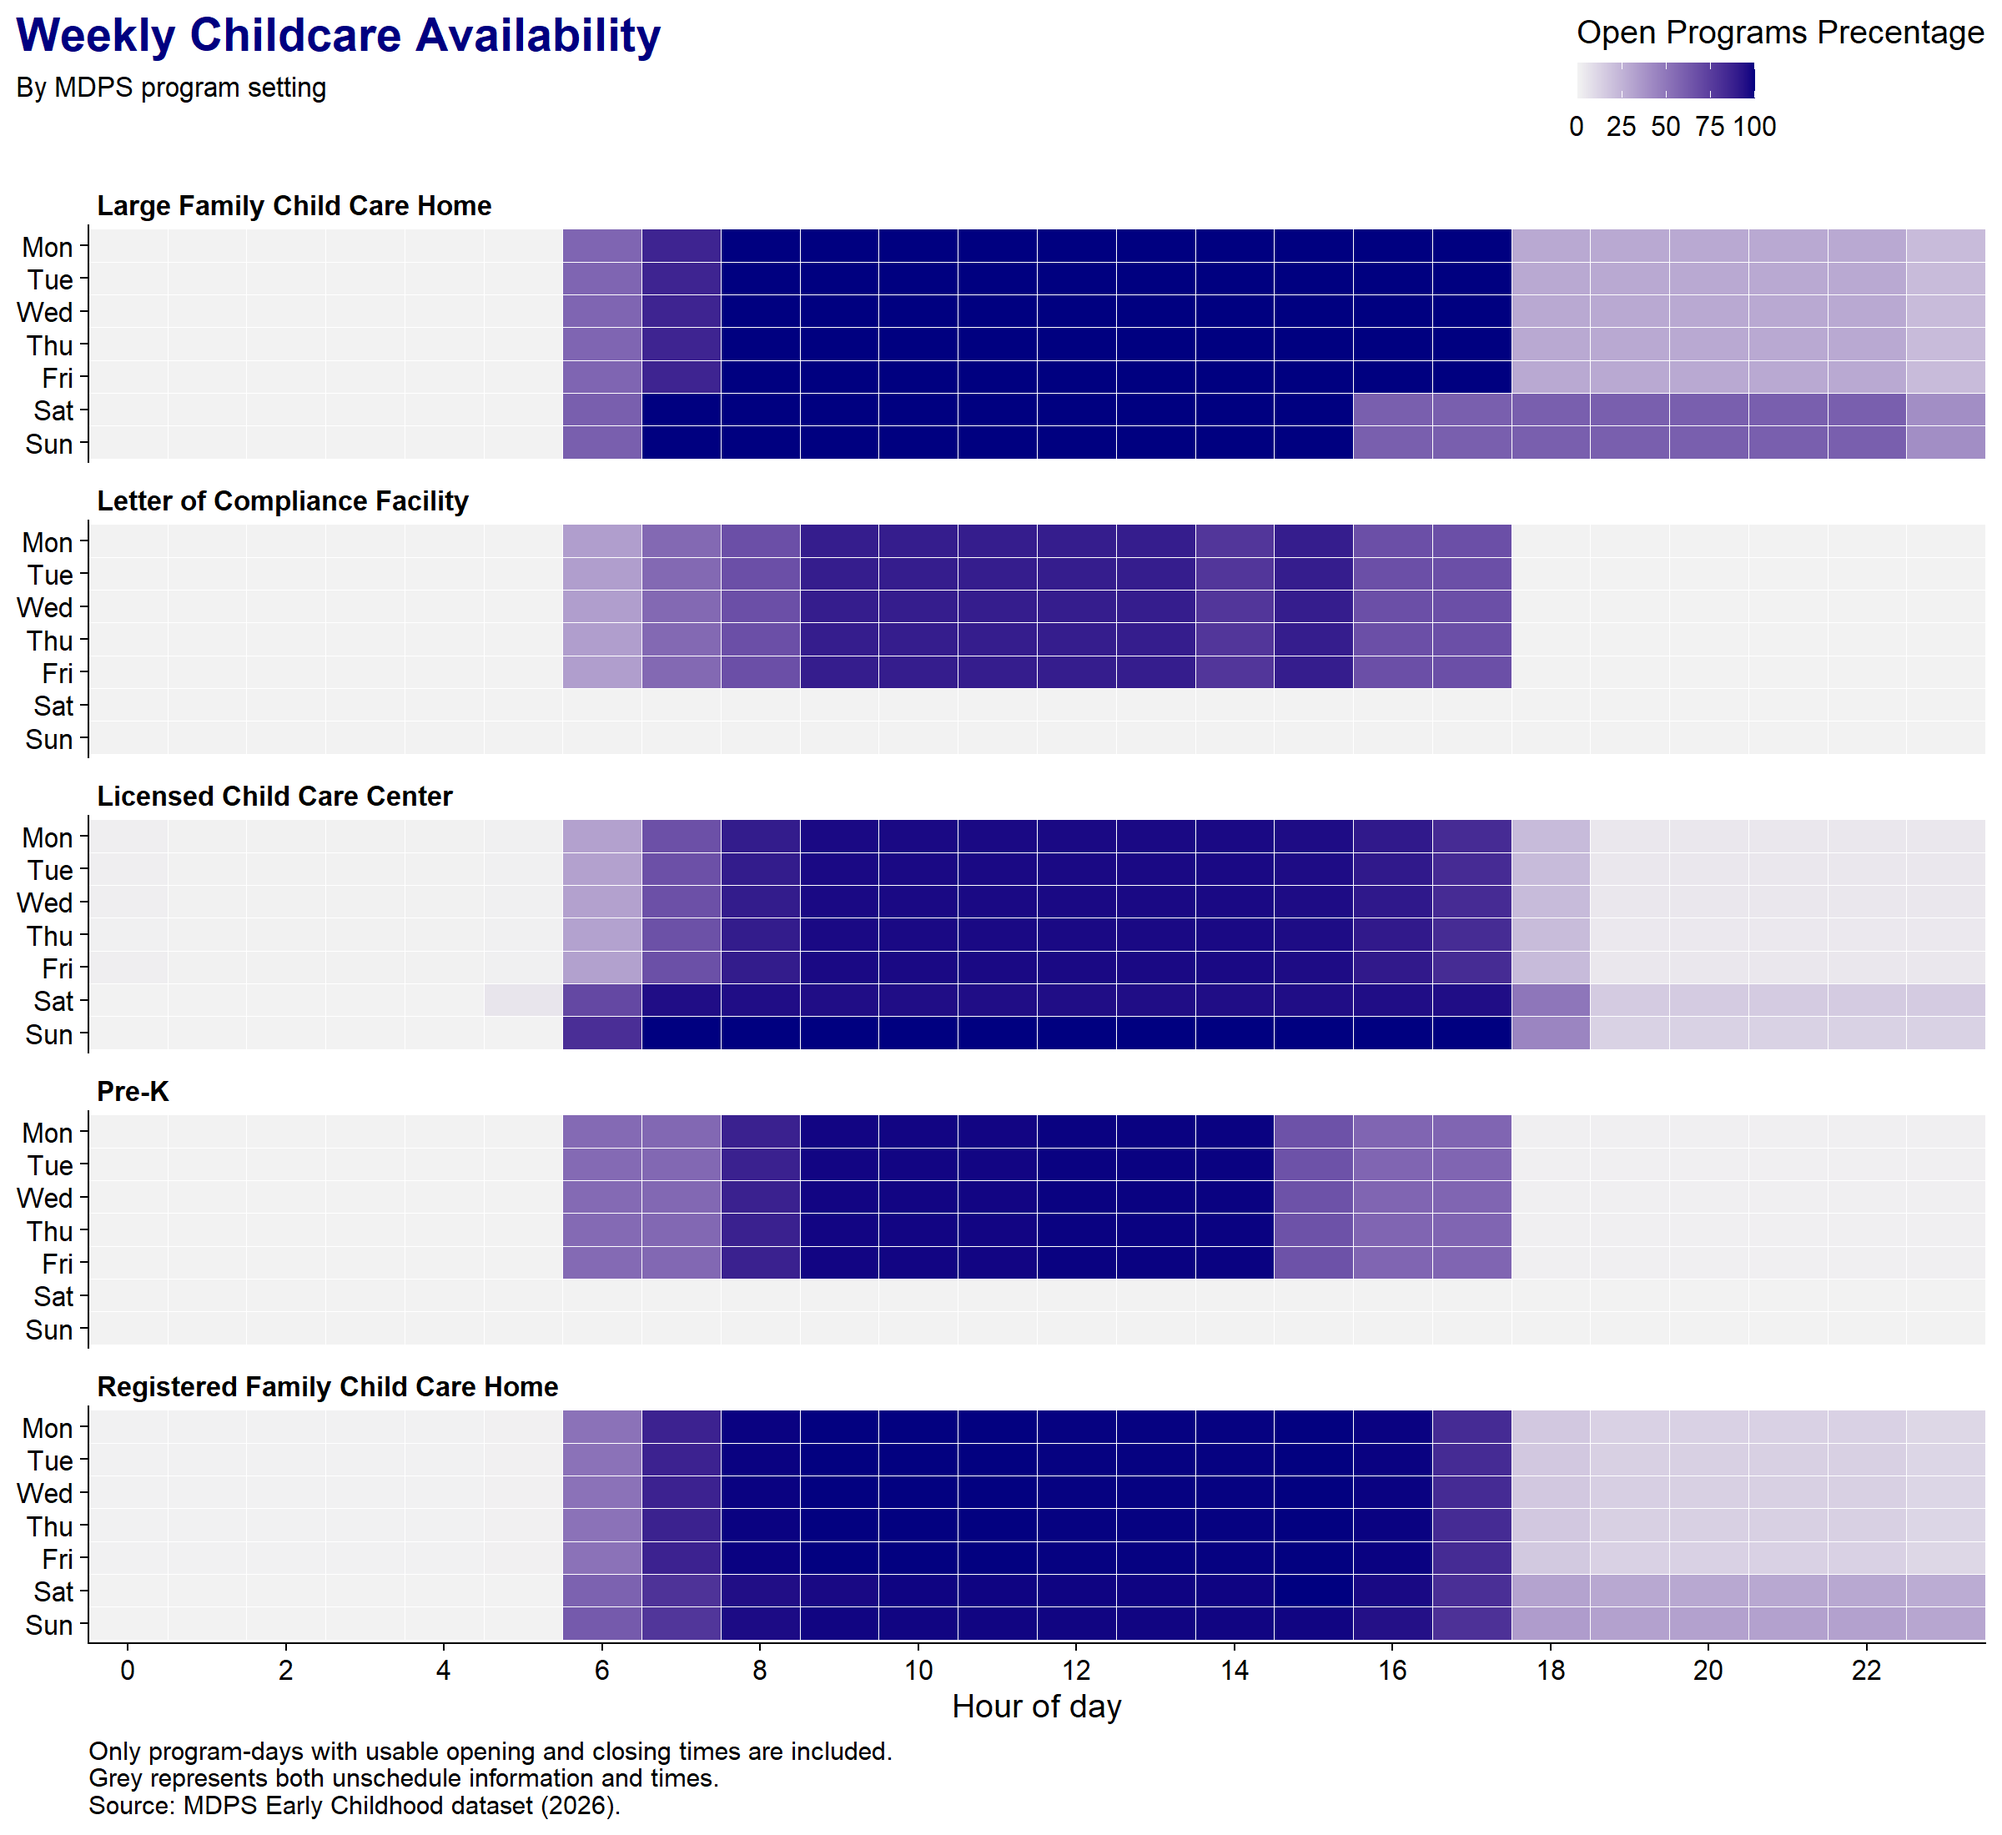
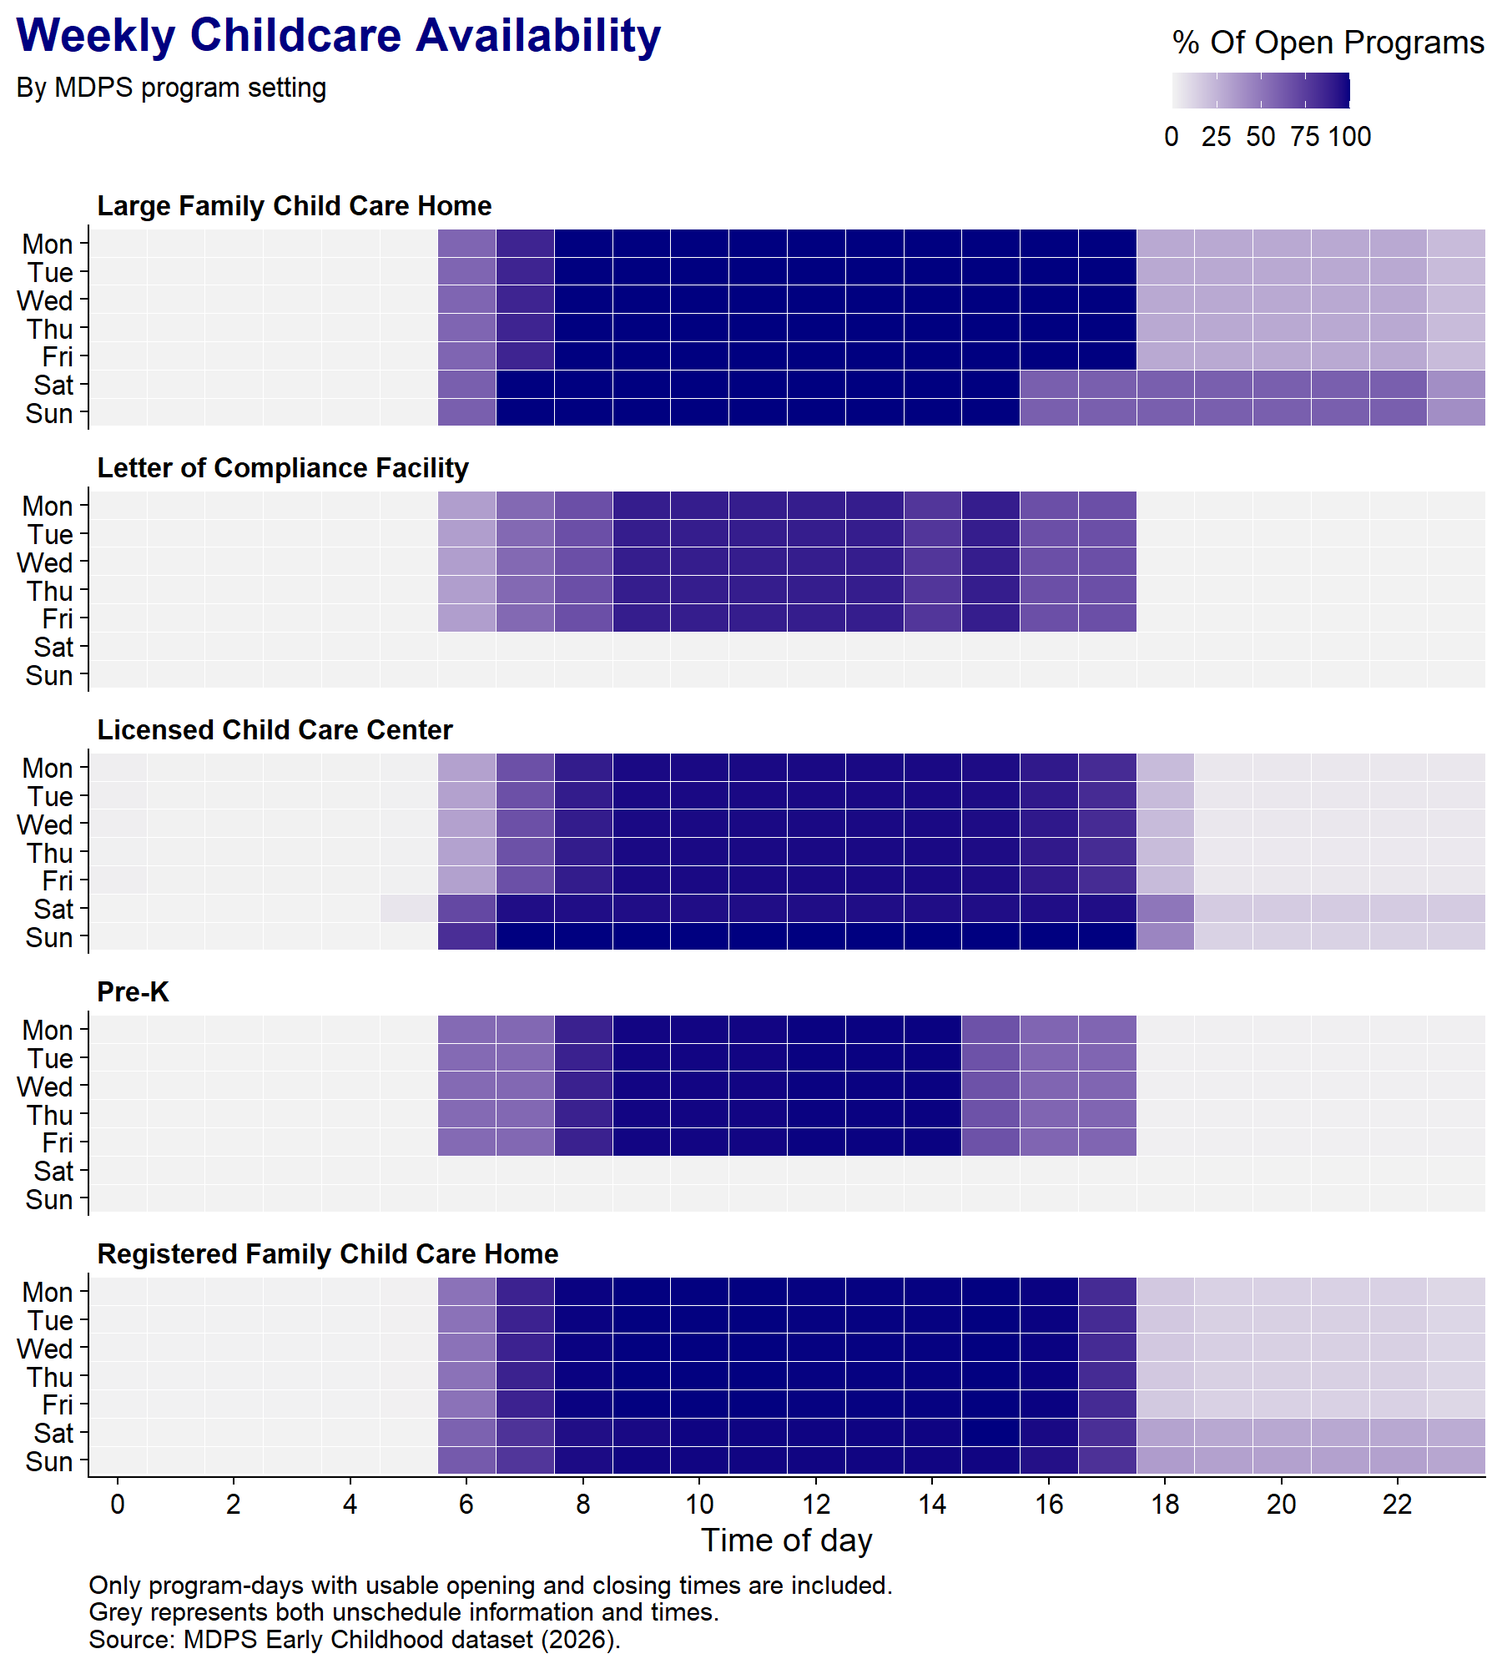
Updated EDA and moved the sketch section to its own quarto.

diff --git a/code/01_eda.md b/code/01_eda.md
@@ -387,13 +387,8 @@ with a capacity of 5-10 spaces.
 
 ``` r
 day_order <- c(
-  "Monday",
-  "Tuesday",
-  "Wednesday",
-  "Thursday",
-  "Friday",
-  "Saturday",
-  "Sunday"
+  "Monday", "Tuesday", "Wednesday", "Thursday",
+  "Friday", "Saturday", "Sunday"
 )
 
 availability <- childcare_eda |>
@@ -403,8 +398,8 @@ availability <- childcare_eda |>
   ) |>
   tidyr::pivot_longer(
     cols = ends_with(".Time"),
-    names_to = c("day", ".value"),
-    names_pattern = "(.*)\\.(Start|End)\\.Time"
+    names_to = c("day", ".value", NA),
+    names_sep = "\\."
   ) |>
   mutate(
     opening = as.numeric(as.difftime(trimws(Start), units = "hours")),
@@ -448,25 +443,14 @@ ggplot(
   aes(x = hour, y = day, fill = percent_open)
 ) +
   geom_tile(color = "white", linewidth = 0.3) +
-  facet_wrap(
-  ~ setting,
-  ncol = 1,
-  strip.position = "top"
-) +
+  facet_wrap(~ setting, ncol = 1) +
   scale_x_continuous(
     breaks = seq(0, 23, 2),
-    expand = c(0, 0)) +
+    expand = c(0, 0)
+  ) +
   scale_y_discrete(
     limits = rev(day_order),
-    labels = rev(c(
-      "Mon", 
-      "Tue", 
-      "Wed", 
-      "Thu", 
-      "Fri", 
-      "Sat", 
-      "Sun")
-      ),
+    labels = function(x) substr(x, 1, 3),
     drop = FALSE
   ) +
   scale_fill_gradient(
@@ -476,15 +460,18 @@ ggplot(
     na.value = "grey95"
   ) +
   guides(
-    fill = guide_colorbar(direction = "horizontal", title.position = "top", title.hjust = 0
+    fill = guide_colorbar(
+      direction = "horizontal",
+      title.position = "top",
+      title.hjust = 0
     )
   ) +
   labs(
     title = "Weekly Childcare Availability",
     subtitle = "By MDPS program setting",
-    x = "Hour of day",
+    x = "Time of day",
     y = NULL,
-    fill = "Open Programs Precentage",
+    fill = "% Of Open Programs",
     caption = paste0(
       "Only program-days with usable opening and closing times are included.\n",
       "Grey represents both unschedule information and times.\n",
@@ -496,18 +483,11 @@ ggplot(
     panel.grid = element_blank(),
     strip.background = element_blank(),
     strip.text.x = element_text(
-      face = "bold",
-      hjust = 0,
-      size = 12),
+      face = "bold", hjust = 0, size = 12),
     plot.title.position = "plot",
     plot.title = element_text(
-      face = "bold",
-      size = 20,
-      color = "navy"
-    ),
-    plot.subtitle = element_text(
-      margin = margin(b = 35)
-    ),
+      face = "bold", size = 20, color = "navy"),
+    plot.subtitle = element_text(margin = margin(b = 35)),
     legend.position = "inside",
     legend.position.inside = c(1, 1.06),
     legend.justification = c(1, 0),
@@ -517,3 +497,129 @@ ggplot(
 ```
 
 ![](01_eda_files/figure-commonmark/heatmap_program-avaibility-1.png)
+
+``` r
+availability |>
+  mutate(
+    day_group = ifelse(
+      day %in% c("Saturday", "Sunday"),
+      "Weekends",
+      "Weekdays"
+    )
+  ) |>
+  group_by(setting, day_group, hour) |>
+  summarise(
+    percent_open = mean(percent_open, na.rm = TRUE),
+    .groups = "drop"
+  ) |>
+  ggplot(aes(x = hour, y = percent_open, color = setting)) +
+  geom_line(linewidth = 1, na.rm = TRUE) +
+  facet_wrap(~ day_group) +
+  scale_x_continuous(
+    breaks = seq(0, 23, 4),
+    expand = c(0, 0)
+  ) +
+  scale_y_continuous(
+    limits = c(0, 100),
+    breaks = seq(0, 100, 25)
+  ) +
+  scale_color_manual(
+  values = colorRampPalette(c("navy", "#808000"))(
+    dplyr::n_distinct(availability$setting)
+  )
+) +
+  labs(
+    title = "Weekday and Weekend Childcare Availability",
+    subtitle = "By MDPS program setting",
+    x = "Time Of Day",
+    y = "% of Open Programs",
+    color = NULL,
+    caption = paste0(
+      "Daily percentages are averaged equally within weekdays and weekends; missing days are excluded.\n",
+      "Only program-days with usable opening and closing times are included.\n",
+      "Source: MDPS Early Childhood dataset (2026)."
+    )
+  ) +
+  theme_cowplot() +
+  theme(
+    panel.grid = element_blank(),
+    strip.background = element_blank(),
+    strip.text = element_text(face = "bold", hjust = 0, size = 12),
+    plot.title.position = "plot",
+    plot.title = element_text(face = "bold", size = 20, color = "navy"),
+    legend.position = "bottom",
+    plot.caption = element_text(hjust = 0)
+  ) +
+  guides(color = guide_legend(ncol = 2))
+```
+
+![](01_eda_files/figure-commonmark/availability-weekdays-weekends-1.png)
+
+``` r
+program_setting_chart <- childcare_eda |>
+  filter(!is.na(zipcode)) |>
+  ggplot(
+    aes(
+      x = factor(zipcode),
+      fill = gen_program_setting_detail
+    )
+  ) +
+  geom_bar(position = "fill")
+```
+
+``` r
+program_setting_chart +
+  scale_y_continuous(
+    labels = scales::percent,
+    expand = expansion(mult = c(0, 0.05))
+  ) +
+  guides(fill = guide_legend(reverse = TRUE)) +
+  scale_fill_manual(
+  values = colorRampPalette(c("navy", "grey95"))(
+    dplyr::n_distinct(childcare_eda$gen_program_setting_detail)
+  )
+) +
+  labs(
+    x = "ZIP code",
+    y = NULL,
+    fill = NULL,
+    title = "Childcare Program Settings by ZIP Code",
+    subtitle = "Share of program records in each setting",
+    caption = "Source: MDPS Early Childhood dataset (2026)."
+  ) +
+  theme_minimal(base_size = 13) +
+  theme(
+    panel.grid.major.x = element_blank(),
+    panel.grid.minor = element_blank(),
+    panel.grid.major.y = element_line(color = "black"),
+    plot.title.position = "plot",
+    plot.title = element_text(face = "bold", size = 20, color = "navy"),
+    plot.caption.position = "plot",
+    plot.caption = element_text(
+      hjust = 0,
+      margin = margin(t = 8)
+    ),
+    axis.text.x = element_text(angle = 45, hjust = 1),
+    legend.justification = c(1, 0.95),
+    legend.key.width = grid::unit(1.5, "lines"),
+    legend.key.height = grid::unit(1, "lines"),
+    legend.key.spacing.y = grid::unit(0.1, "lines")
+  )
+```
+
+![](01_eda_files/figure-commonmark/program-setting-share-chart-1.png)
+
+Looking through this, I’m becoming more interested in the relationship
+between program setting and opertaing schedules. Regestered family
+childcare homes make up the largest group of records, followed by
+licensed childcare centers. Among programs with capacity of 300 or less,
+those reporting weekend operation have a lower average capacity than
+those reporting weekday operation, around 15 spaces compared with 28. I
+want to explore whether differences in program settings help explain
+that pattern. These results describe reported programs and schedules,
+though, rather than available openings or whether childcare meets local
+demand. I steped back and took time to develop the last three charts to
+have a full picture; Program by zipcodes shows the disterbution of
+programs in each zip. The other two are displaying the same thing in
+different ways, i like the heatmap more but think the variation is truly
+seen in the faceted line chart.
